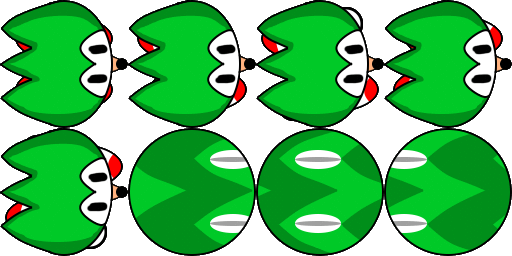
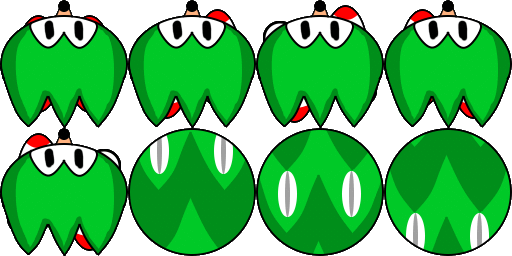
Fix hedgehog rotations

diff --git a/Assets/Scripts/HedgehogController.cs b/Assets/Scripts/HedgehogController.cs
@@ -123,12 +123,14 @@ public class HedgehogController : MonoBehaviour
     {
         if (target == null) { SetState(HedgehogState.Idle); return; }
         rb.velocity = Vector2.MoveTowards(rb.velocity, (target.transform.position - transform.position).normalized * maxSpeed, acceleration * Time.fixedDeltaTime);
+        transform.rotation = Quaternion.RotateTowards(transform.rotation, Quaternion.Euler(new Vector3(0f, 0f, Vector2.SignedAngle(Vector2.up, target.transform.position - transform.position))), Time.fixedDeltaTime * 180);
     }
 
     void Attack()
     {
         if (target == null) { SetState(HedgehogState.Idle); return; }
         rb.velocity = Vector2.MoveTowards(rb.velocity, (target.transform.position - transform.position).normalized * maxSpeed, acceleration / 2 * Time.fixedDeltaTime);
+        transform.rotation = Quaternion.RotateTowards(transform.rotation, Quaternion.Euler(new Vector3(0f, 0f, Vector2.SignedAngle(Vector2.up, target.transform.position - transform.position))), Time.fixedDeltaTime * 180);
     }
 
     void FixedUpdate()
